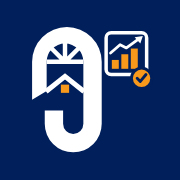
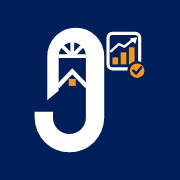
feat: monogram ikon diperjelas sebagai huruf J (jendela lengkung sempit di atas batang, kait terbuka ke kiri)

Changed region(s): [[0.1667, 0.1389, 0.8333, 0.75], [0.1667, 0.6111, 0.5556, 0.8611]]

diff --git a/assets/nav.js b/assets/nav.js
@@ -40,7 +40,7 @@
     return `<a class="side-i" href="${href}"${it[3] && it[0] === page ? ' aria-current="page"' : ''}>${inner}</a>`;
   };
   const APP = window.MH_APP_NAME || 'Jendela Jasper', TAG = window.MH_APP_TAGLINE || 'Monitoring Pencapaian Sales Harian';
-  const LOGO = '<svg class="side-logo" viewBox="0 0 512 512" aria-hidden="true" focusable="false"><rect width="512" height="512" rx="112" fill="#001F5B"/><g transform="translate(256 258) scale(.9) translate(-210 -267)"><path d="M92 318V178.0A118.0 118.0 0 0 1 328 178.0V372A92 92 0 0 1 144 372V336H204V372A32 32 0 0 0 268 372V178.0A68.0 68.0 0 0 0 132 178.0V290Z" fill="#FFF"/><path d="M200.0 178.0L249 129M200.0 178.0V96.0M200.0 178.0L151 129M124.0 178.0H276.0" stroke="#FFF" stroke-width="22" fill="none"/><rect x="170.0" y="220.0" width="60" height="78" fill="#F8991C"/></g></svg>';
+  const LOGO = '<svg class="side-logo" viewBox="0 0 512 512" aria-hidden="true" focusable="false"><rect width="512" height="512" rx="112" fill="#001F5B"/><g transform="translate(256 256) scale(1.04) translate(-230 -253)"><path d="M160 285V146A90 90 0 0 1 340 146V340A110 110 0 0 1 120 340V322H178V340A52 52 0 0 0 282 340V146A43 43 0 0 0 196 146V255Z" fill="#FFFFFF"/><path d="M239 146L275 110M239 146V96M239 146L203 110M196 146H282" stroke="#FFFFFF" stroke-width="18" fill="none"/><rect x="219" y="190" width="40" height="52" fill="#F8991C"/></g></svg>';
   nav.className = 'side';
   nav.setAttribute('aria-label', 'Navigasi utama');
   nav.innerHTML = `<div class="side-brand">${LOGO}<div class="side-bt"><b>${APP}</b><small>${TAG}</small></div>` +

diff --git a/cek-stok.html b/cek-stok.html
@@ -136,7 +136,7 @@
 <script src="assets/status-banner.js?v=3"></script>
 <script src="assets/fresh.js?v=202611191600"></script>
 <script src="https://cdnjs.cloudflare.com/ajax/libs/html5-qrcode/2.3.8/html5-qrcode.min.js"></script>
-<script src="assets/nav.js?v=202611200300"></script>
+<script src="assets/nav.js?v=202611200400"></script>
 <script src="assets/stok.js?v=202611192300"></script>
 <script src="assets/bedah-stok.js?v=202611182000"></script>
 </body>

diff --git a/kehadiran.html b/kehadiran.html
@@ -107,7 +107,7 @@
 <script src="assets/util.js?v=202611200200"></script>
 <script src="assets/status-banner.js?v=3"></script>
 <script src="assets/fresh.js?v=202611191600"></script>
-<script src="assets/nav.js?v=202611200300"></script>
+<script src="assets/nav.js?v=202611200400"></script>
 <script src="assets/hadir.js?v=202611192300"></script>
 </body>
 </html>

diff --git a/index.html b/index.html
@@ -163,7 +163,7 @@
 <script src="assets/util.js?v=202611200200"></script>
 <script src="assets/status-banner.js?v=3"></script>
 <script src="assets/fresh.js?v=202611191600"></script>
-<script src="assets/nav.js?v=202611200300"></script>
+<script src="assets/nav.js?v=202611200400"></script>
 <script src="assets/app.js?v=202611192300"></script>
 </body>
 </html>

diff --git a/great-sales.html b/great-sales.html
@@ -154,7 +154,7 @@
 <script src="assets/util.js?v=202611200200"></script>
 <script src="assets/status-banner.js?v=3"></script>
 <script src="assets/fresh.js?v=202611191600"></script>
-<script src="assets/nav.js?v=202611200300"></script>
+<script src="assets/nav.js?v=202611200400"></script>
 <script src="assets/gs.js?v=202611192300"></script>
 </body>
 </html>

diff --git a/ranking.html b/ranking.html
@@ -90,7 +90,7 @@
 <script src="assets/util.js?v=202611200200"></script>
 <script src="assets/status-banner.js?v=3"></script>
 <script src="assets/fresh.js?v=202611191600"></script>
-<script src="assets/nav.js?v=202611200300"></script>
+<script src="assets/nav.js?v=202611200400"></script>
 <script src="assets/rank.js?v=202611192300"></script>
 </body>
 </html>
